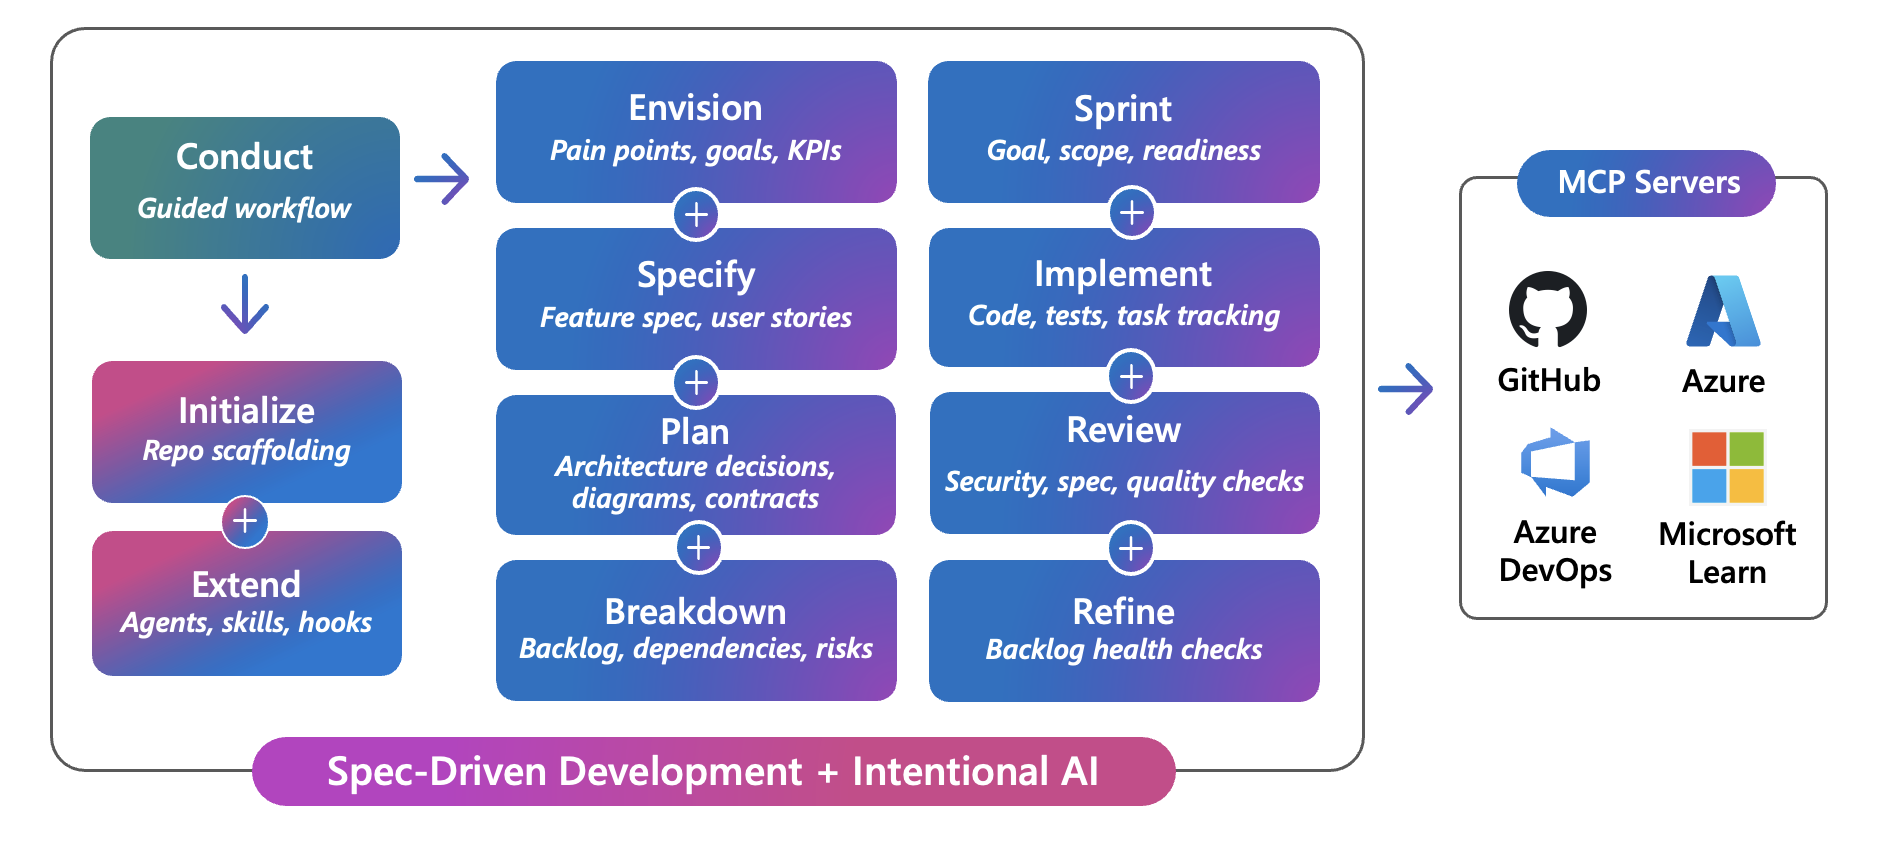
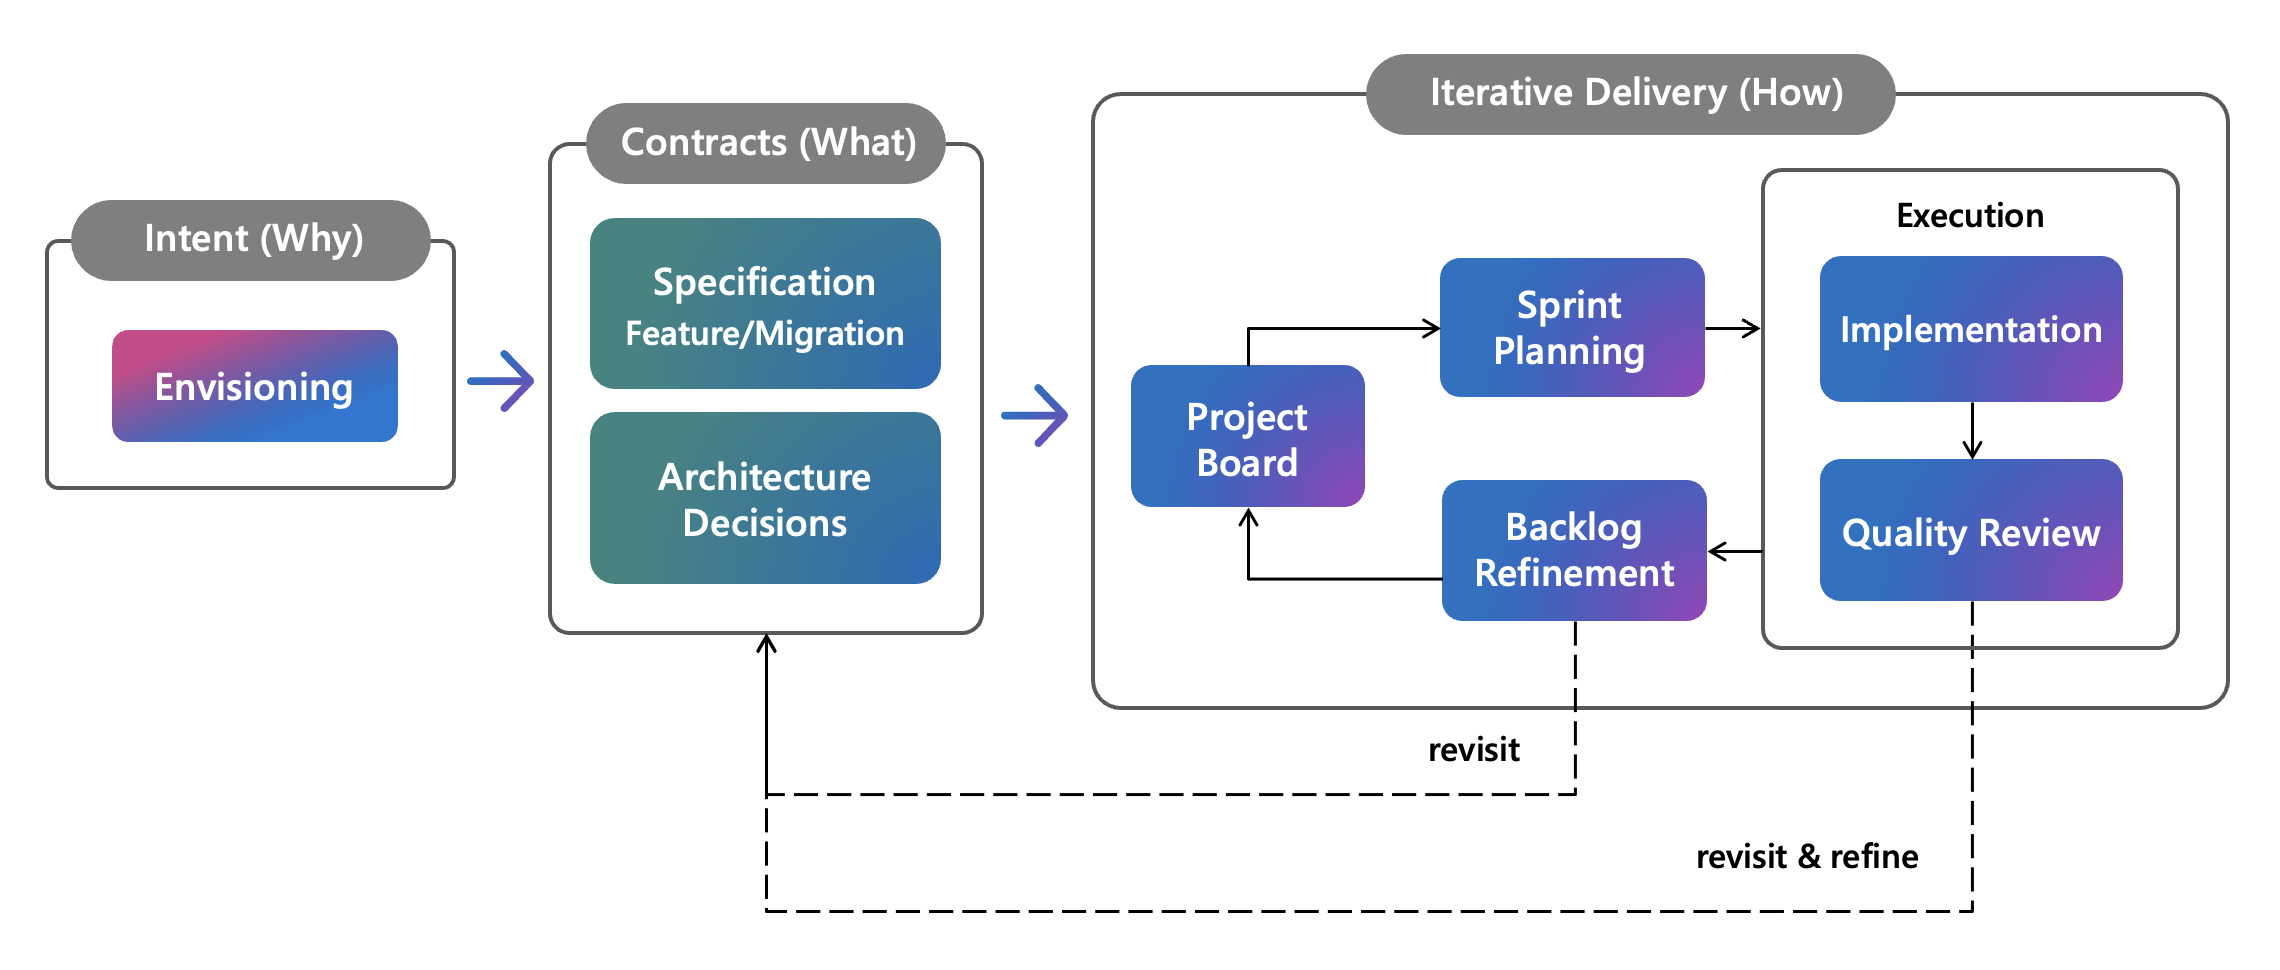
docs(readme): add intentional AI core concept and refine delivery diagram
Add Intentional AI as a core concept with low/medium/high impact
contrast showing how agents adjust rigor to change scope.

Refine the delivery flow diagram: add Sprint Planning and Refinement
nodes, simplify Review to Board arrow, and move contract feedback
to Refinement (matching the actual agent responsibility).

Update the overview image to reflect current framework structure.

diff --git a/README.md b/README.md
@@ -1,6 +1,6 @@
 # DevSquad GitHub Copilot
 
-A delivery framework for GitHub Copilot that helps teams start from *why* they are building something, derive *what* must be built through explicit specifications and architecture decisions, and continuously verify that the *how* (the code) stays aligned with the original intent.
+A delivery framework for GitHub Copilot that guides teams from **intent** to **implementation**: starting with a clearly defined business purpose and expected outcomes (**why**), translating it into explicit specifications and architecture decisions (**what**), and continuously ensuring the **how** (the code) remains aligned with that intent through ongoing validation.
 
 > [!WARNING]
 > This project is under active development. It follows [semantic versioning](https://semver.org/); breaking changes may occur in minor releases until 1.0. See the [changelog](CHANGELOG.md) for release notes.
@@ -15,7 +15,7 @@ Following an **Intent-Driven Development** approach, it is designed to be:
 
 * **Intent-first**: every initiative (feature, migration, infrastructure change) traces back to a business need captured in the envisioning document
 * **Spec-driven**: specifications act as formal contracts between what stakeholders need and what developers build
-* **Human-in-the-loop**: agents ask before assuming, propose before executing, and require approval for high-impact changes
+* **Human-in-the-loop**: agents ask before assuming and require approval for high-impact changes (see [Intentional AI](#intentional-ai))
 
 ## Core Concepts
 
@@ -46,6 +46,12 @@ An **ADR** captures the technical choices that shape implementation. It answers 
 
 ADRs document ranked priorities, evaluated options, and the reasoning behind each choice. They provide the architectural context that connects what the spec requires to how the code delivers it.
 
+### Intentional AI
+
+Agents follow a Socratic approach: they ask clarifying questions, propose plans for review, and adjust rigor to the scope of the change. A typo fix executes directly. A new function requires a plan and confirmation. A new service requires an ADR and explicit approval.
+
+AI accelerates each step, but humans make the decisions.
+
 ### Delivery Lifecycle
 
 The framework connects these concepts into a continuous pipeline:
@@ -53,36 +59,6 @@ The framework connects these concepts into a continuous pipeline:
 * **Before coding**: intents and specs are defined, validated, and decomposed into prioritized tasks
 * **During coding**: specs and ADRs act as contractual guidance; implementation follows the plan
 * **After changes**: review verifies alignment between code and the original spec
-
-```mermaid
-flowchart LR
-    subgraph intent["Intent (Why)"]
-        E["Envisioning"]
-    end
-
-    subgraph contract["Contract (What)"]
-        direction LR
-        S["Specification<br/>(Feature/Migration)"]
-        ADR["Architecture<br/>Decisions"]
-    end
-
-    subgraph delivery["Delivery (How)"]
-        P["Plan & Backlog"]
-        B["Project<br/> Management Board"]
-        SP["Sprint"]
-        I["Implement"]
-        R["Quality <br/>Review"]
-    end
-
-    E --> contract
-    contract --> delivery
-    P -->|"syncs"| B
-    B --> SP
-    SP --> I
-    I --> R
-    R -->|"next task"| B
-    R -.->|"revisit / refine"| contract
-```
 
 Solid arrows: phase transitions with human review. Dashed arrows: feedback loops. Specs and ADRs are living artifacts refined throughout delivery.
 
